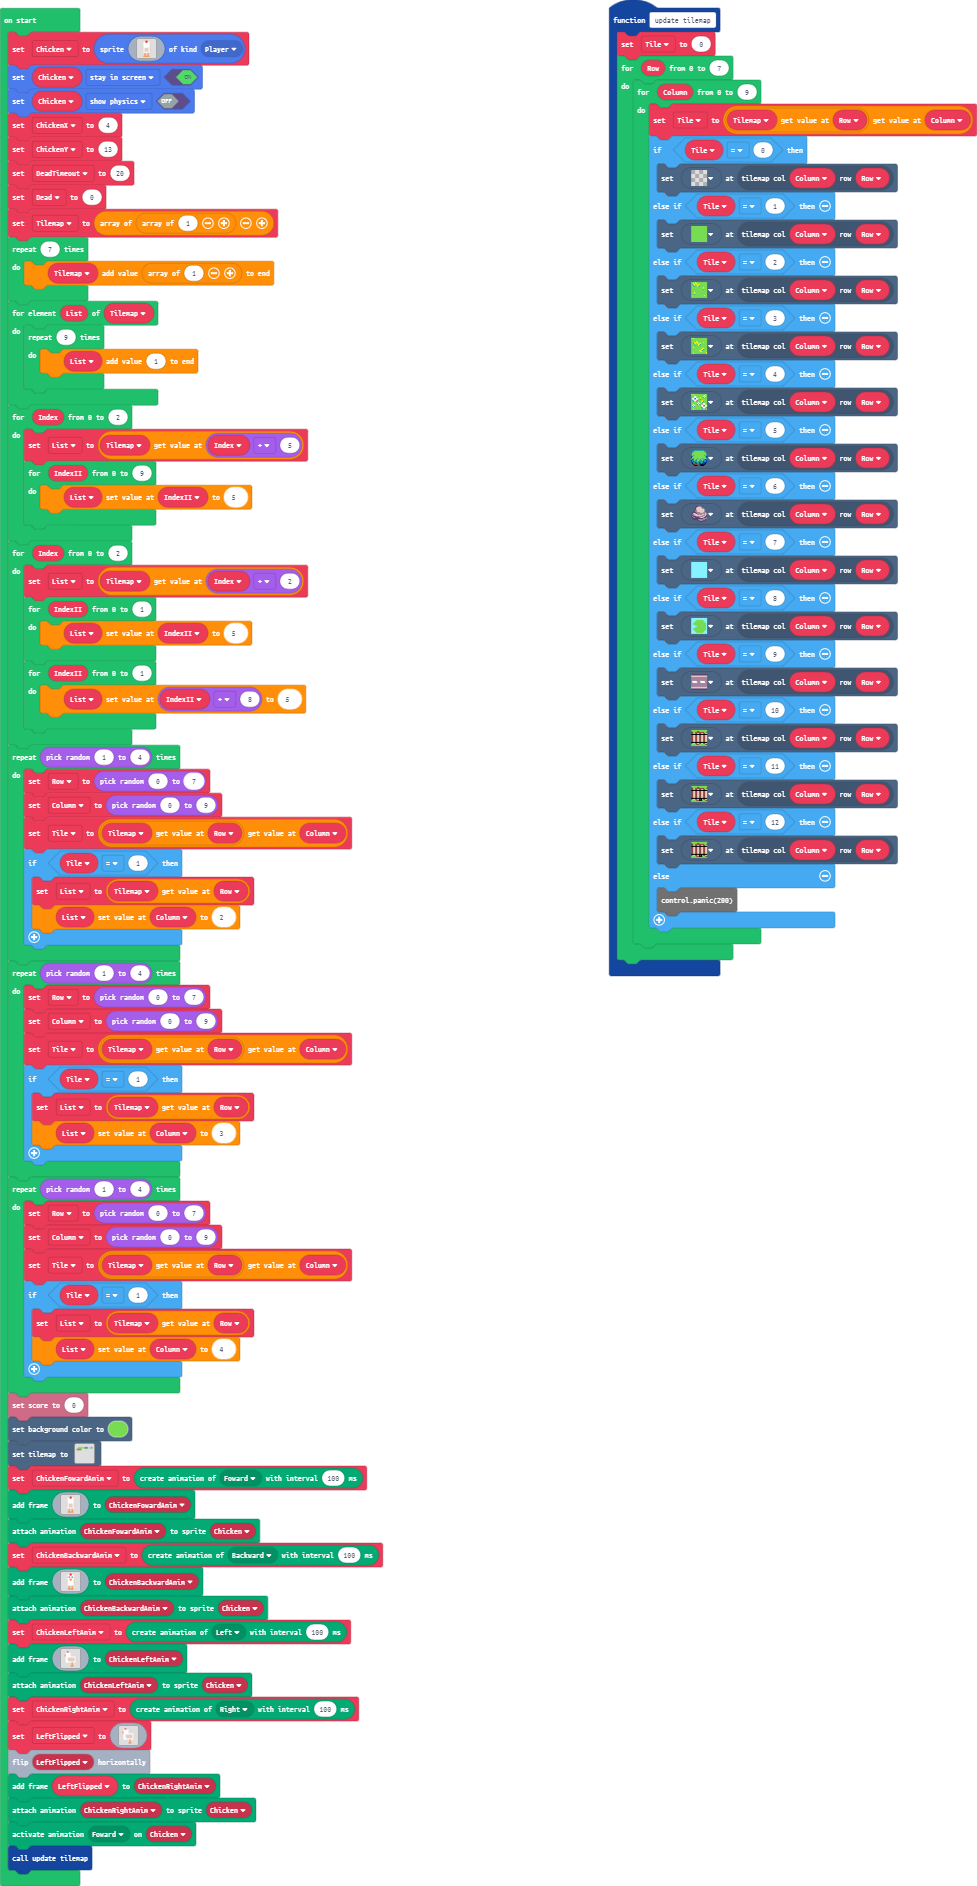
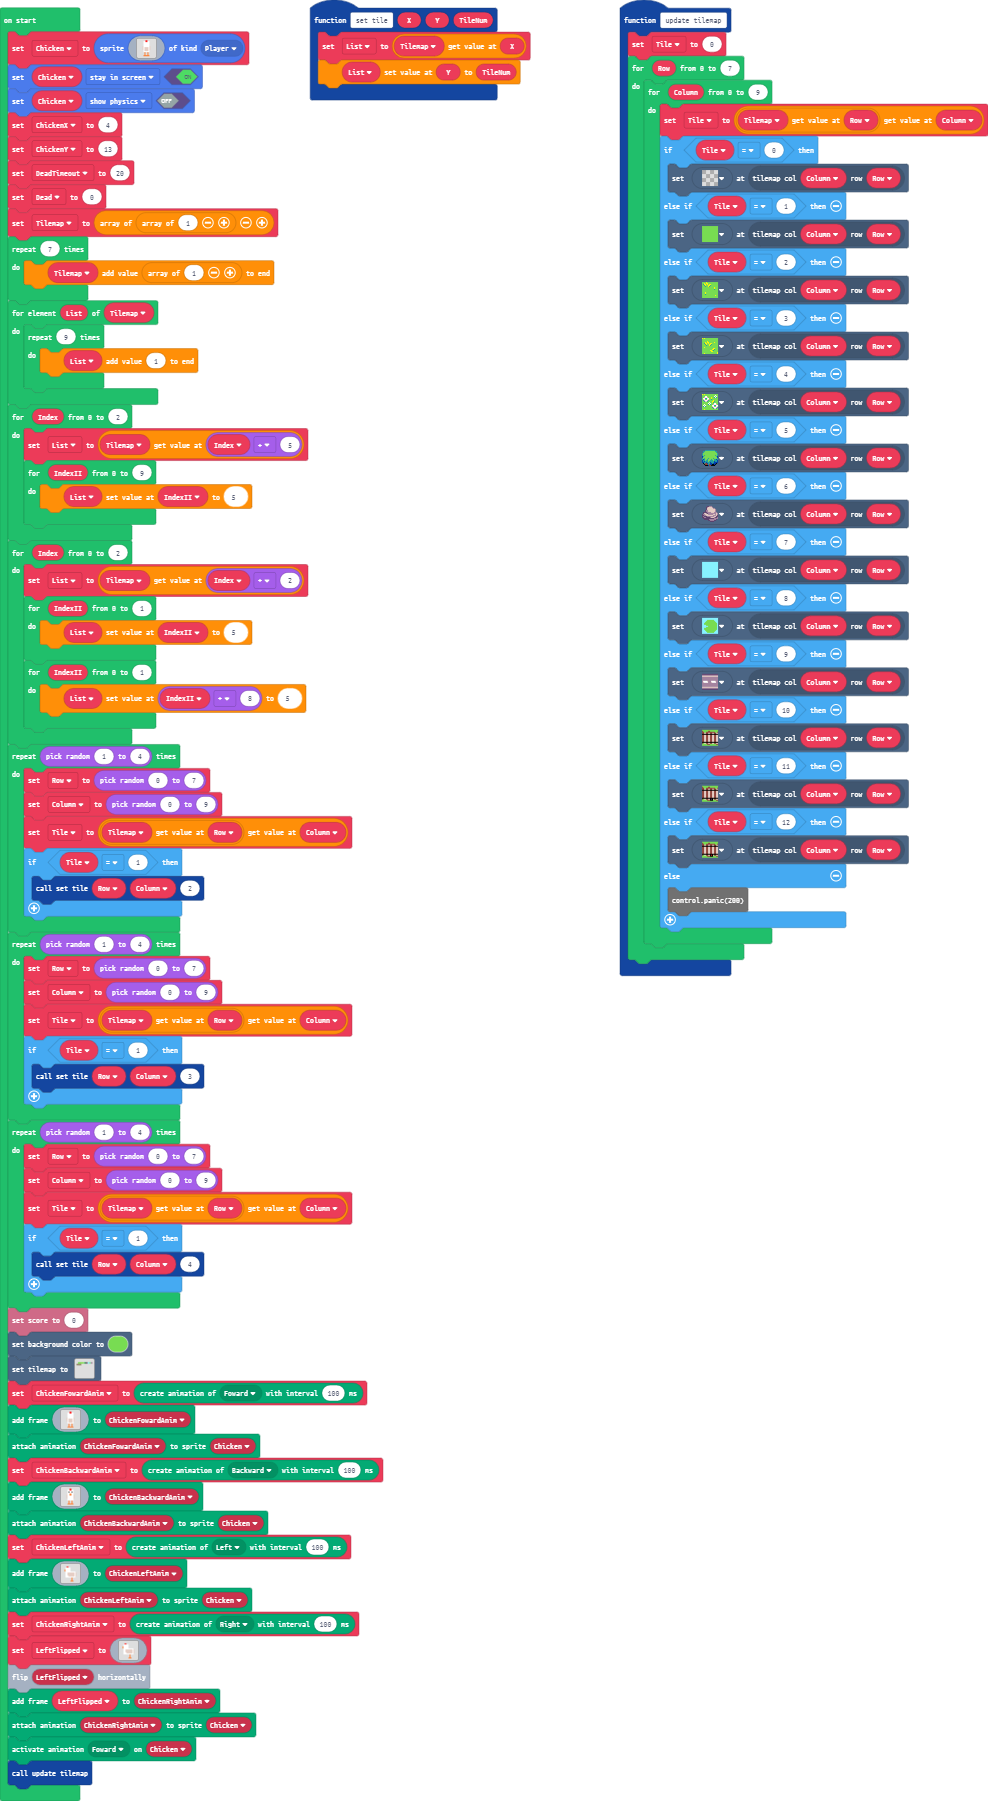
Made a set tile function

Changed region(s): [[0.0, 0.0, 0.3992, 0.995], [0.6141, 0.0, 1.0, 0.5597], [0.3071, 0.0, 0.5527, 0.0622]]

diff --git a/main.ts b/main.ts
@@ -142,6 +142,10 @@ e 7 d d e e d d f 2 f d e e d d
 7 7 7 7 7 7 7 7 7 7 7 7 7 7 7 7 
 `
 }
+function set_tile (X: number, Y: number, TileNum: number) {
+    List = Tilemap[X]
+    List[Y] = TileNum
+}
 function update_tilemap () {
     Tile = 0
     for (let Row = 0; Row <= 7; Row++) {
@@ -237,8 +241,7 @@ for (let index = 0; index < Math.randomRange(1, 4); index++) {
     Column = Math.randomRange(0, 9)
     Tile = Tilemap[Row][Column]
     if (Tile == 1) {
-        List = Tilemap[Row]
-        List[Column] = 2
+        set_tile(Row, Column, 2)
     }
 }
 for (let index = 0; index < Math.randomRange(1, 4); index++) {
@@ -246,8 +249,7 @@ for (let index = 0; index < Math.randomRange(1, 4); index++) {
     Column = Math.randomRange(0, 9)
     Tile = Tilemap[Row][Column]
     if (Tile == 1) {
-        List = Tilemap[Row]
-        List[Column] = 3
+        set_tile(Row, Column, 3)
     }
 }
 for (let index = 0; index < Math.randomRange(1, 4); index++) {
@@ -255,8 +257,7 @@ for (let index = 0; index < Math.randomRange(1, 4); index++) {
     Column = Math.randomRange(0, 9)
     Tile = Tilemap[Row][Column]
     if (Tile == 1) {
-        List = Tilemap[Row]
-        List[Column] = 4
+        set_tile(Row, Column, 4)
     }
 }
 info.setScore(0)
